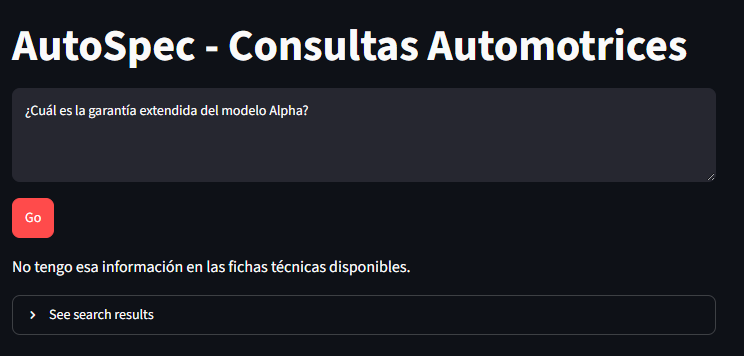
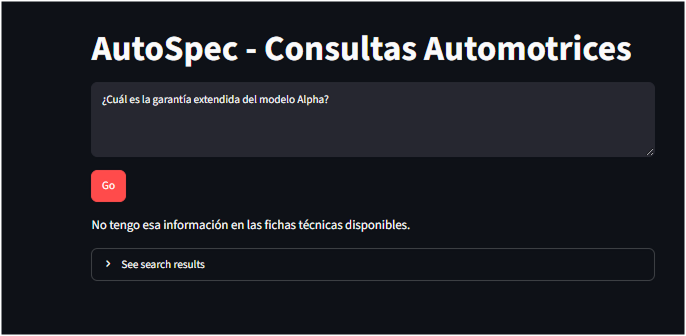
docs(fase-2): update phase 2 screenshots and documentation

diff --git a/fase2-rag-gestionado/README.md b/fase2-rag-gestionado/README.md
@@ -1,4 +1,4 @@
-# Fase 2 — RAG con AWS (Titan Embeddings + Nova Lite)
+# Fase 2 - RAG con AWS (Titan Embeddings + Nova Lite)
 
 ⬅ [Volver al README principal](../README.md)
 
